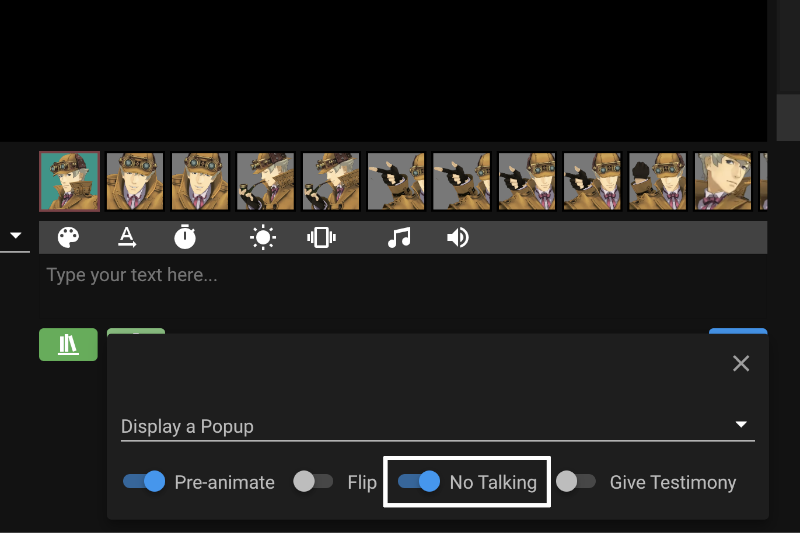
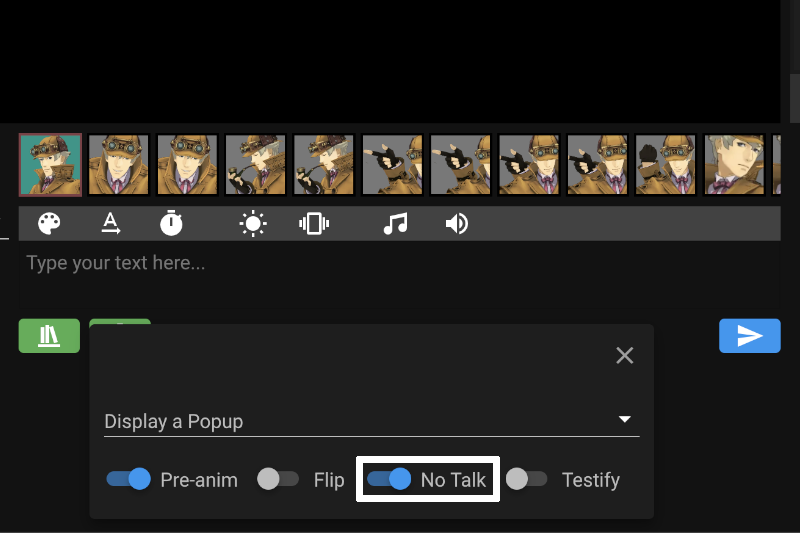
Add dont-delay-toggle, shorten toggle names when there's more than 4

diff --git a/hold-it-lol/content/content.js b/hold-it-lol/content/content.js
@@ -833,14 +833,19 @@ function onLoad(options) {
 
     setTimeout(() => {
         for (let label of document.querySelectorAll('label')) {
+            if (label.textContent === 'Give Testimony') {
+                label.textContent = 'Testify';
+            }
+
             if (label.textContent !== 'Pre-animate') continue;
+            label.textContent = 'Pre-anim';
 
             const preToggle = label.parentElement.parentElement.parentElement;
             const toggles = preToggle.parentElement;
             const testimonyToggle = toggles.parentElement.querySelector(':scope > .v-input--switch');
             toggles.classList.add('hil-message-toggles');
 
-            if (options['no-talk-toggle'] || options['smart-tn']) {
+            if (options['no-talk-toggle'] || options['smart-tn'] || options['dont-delay-toggle']) {
                 const activeToggleClasses = ['v-input--is-label-active', 'v-input--is-dirty', 'primary--text'];
 
                 const flipToggle = label.parentElement.parentElement.parentElement.nextElementSibling;
@@ -880,18 +885,29 @@ function onLoad(options) {
                 }
 
                 const toggleData = [];
-                options['no-talk-toggle'] && toggleData.push({label: 'No Talking', checked: false, onchange: function(checked) {
-                    window.postMessage(['set_socket_state', {
+                if (options['no-talk-toggle']) {
+                    toggleData.push({label: 'No Talk', checked: false, onchange: function(checked) {
+                        window.postMessage(['set_socket_state', {
                             [ 'no-talk' ]: checked
                         }]);
-                }});
-                options['smart-tn'] && toggleData.push({label: 'TN-animate', checked: options['tn-toggle-value'], onchange: function(checked) {
-                    optionSet('tn-toggle-value', checked);
-                    window.postMessage([
-                        'set_options',
-                        options
-                    ]);
-                }});
+                    }});
+                }
+                if (options['dont-delay-toggle']) {
+                    toggleData.push({label: 'Don\'t Delay', checked: false, onchange: function(checked) {
+                        window.postMessage(['set_socket_state', {
+                            [ 'dont-delay' ]: checked
+                        }]);
+                    }});
+                }
+                if (options['smart-tn']) {
+                    toggleData.push({label: 'TN-anim', checked: options['tn-toggle-value'], onchange: function(checked) {
+                        optionSet('tn-toggle-value', checked);
+                        window.postMessage([
+                            'set_options',
+                            options
+                        ]);
+                    }});
+                }
                 for (let i = 0; i < toggleData.length; i++) {
                     const { label, checked, onchange } = toggleData[i];
                     const toggle = createToggle(function(checked) {
@@ -922,8 +938,6 @@ function onLoad(options) {
 
                 optionsIcon.parentElement.parentElement.parentElement.parentElement.parentElement.prepend(toggles);
             }
-
-            break;
         }
 
         if (options['fullscreen-evidence']) {
@@ -2729,7 +2743,7 @@ function onLoad(options) {
 
     if (options['smart-tn']) injectScript(chrome.runtime.getURL('inject/closest-match/closest-match.js'));
     if (options['pose-icon-maker'] || options['export-cc-images']) injectScript(chrome.runtime.getURL('inject/jsZip.min.js'));
-    if (options['testimony-mode'] || options['no-talk-toggle'] || options['smart-tn'] || options['now-playing'] || options['list-moderation'] || options['mute-character'] || options['fullscreen-evidence'] || options['volume-sliders'] || options['pose-icon-maker'] || options['disable-testimony-shortcut'] || options['unblur-low-res'] || options['save-last-character'] || options['fix-tag-nesting'] || options['newlines'] || options['menu-auto-close'] || options['old-bubbles']) {
+    if (options['testimony-mode'] || options['no-talk-toggle'] || options['dont-delay-toggle'] || options['smart-tn'] || options['now-playing'] || options['list-moderation'] || options['mute-character'] || options['fullscreen-evidence'] || options['volume-sliders'] || options['pose-icon-maker'] || options['disable-testimony-shortcut'] || options['unblur-low-res'] || options['save-last-character'] || options['fix-tag-nesting'] || options['newlines'] || options['menu-auto-close'] || options['old-bubbles']) {
         injectScript(chrome.runtime.getURL('content/utils.js'));
         addMessageListener(window, 'loaded_utils', function() {
             injectScript(chrome.runtime.getURL('inject/vue-wrapper.js'));

diff --git a/hold-it-lol/options/options.js b/hold-it-lol/options/options.js
@@ -24,6 +24,7 @@ const tabs = [
             { key: 'fix-tag-nesting', title: 'Fix tags inside color tags', description: 'Fixes tags inside of color tags such as [#/r][#bgs1][/#] not working.', preview: 'previews/fix-tag-nesting.png' },
             { key: 'more-color-tags', title: 'More color tags', description: 'Converts [#/y], [#/w] and [#/dr] into valid color tags.', preview: 'previews/more-color-tags.png' },
             { key: 'no-talk-toggle', title: '"No talking" toggle', description: 'Disables your character\'s talking animation, just like in Objection Maker.', preview: 'previews/no-talk-toggle.png' },
+            { key: 'dont-delay-toggle', title: '"Don\'t Delay Dialogue" toggle', description: 'Adds the "Don\'t Delay Dialogue" toggle from Objection Maker.', preview: 'previews/dont-delay-toggle.png' },
             { key: 'comma-pause', title: 'Quickly typing pauses', description: 'Press , again after a , or other punctuation marks to add pauses.<br>(Typing more , increases the delay.)', preview: 'previews/comma-pause.webp' },
             { key: 'ctrl-effects', title: 'Effect hotkeys', description: 'Quickly add the Flash and Shake tags by pressing CTRL + 1, CTRL + 2, or CTRL + 3.', preview: 'previews/ctrl-effects.webp' },
             { key: 'alt-colors', title: 'Color hotkeys', description: 'Quickly color selected text red, blue or green by pressing ALT + 1, ALT + 2, or ALT + 3.', preview: 'previews/alt-colors.webp' },

diff --git a/hold-it-lol/inject/vue-wrapper.js b/hold-it-lol/inject/vue-wrapper.js
@@ -1417,8 +1417,8 @@ function main() {
 
         if (action === 'message') {
             if (socketStates['no-talk'] || data.frame.text.includes('[##nt]')) data.frame.doNotTalk = true;
+            if (socketStates['dont-delay'] || data.frame.text.includes('[##dd]')) data.frame.keepDialogue = true;
             if (data.frame.text.includes('[##mn]')) data.frame.mergeNext = true;
-            if (data.frame.text.includes('[##dd]')) data.frame.keepDialogue = true;
             if (data.frame.text.includes('[##ct]')) data.frame.frameActions.push({ "actionId": 9 });
             if (data.frame.text.includes('[##tm]')) data.testimony = true;
 
